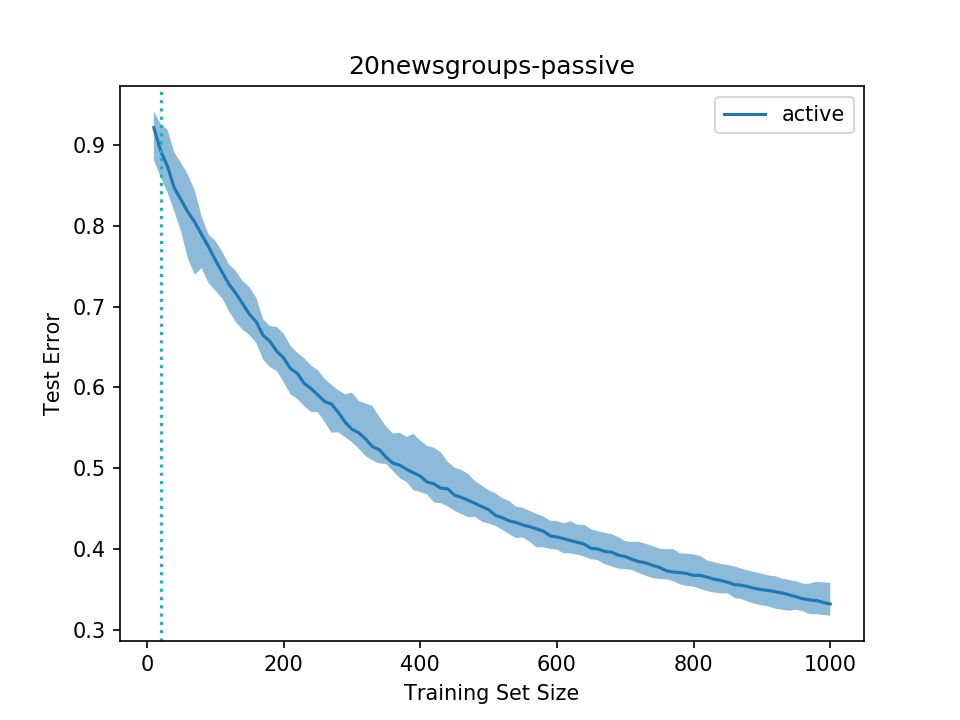
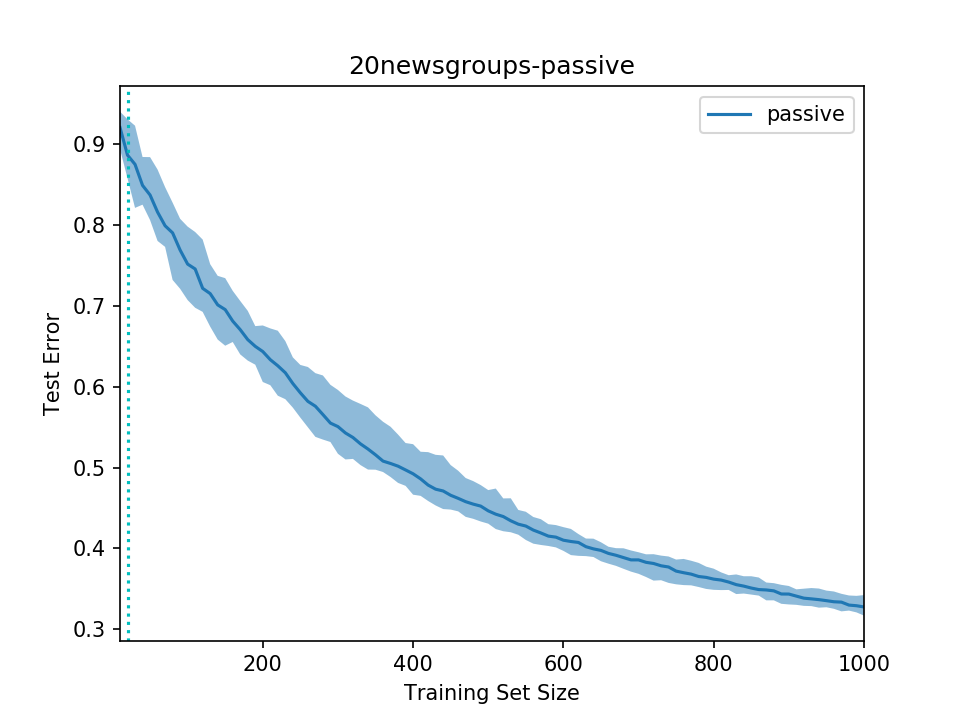
correcting legend for error plots

diff --git a/run_experiments.py b/run_experiments.py
@@ -20,16 +20,17 @@ def train_20newsgroups_all():
     indices = np.arange(len(y))
     x_train, x_rest, y_train, y_rest, idx_train, idx_rest = train_test_split(X, y, indices, test_size=0.67)
     x_teach, x_test, y_teach, y_test, idx_teach, idx_test = train_test_split(x_rest, y_rest, idx_rest, test_size=0.5)
+
     options.phase2 = 'margin'
     test_err, stopped_phase1_at = training(x_train, y_train, x_test, y_test)
-    plot_minmedianmax(test_err, stopped_phase1_at, folder='figs/active', title='20newsgroups-margin', filename='20newsgroups-margin.png', save=True)
+    plot_minmedianmax(test_err, stopped_phase1_at, legend_name='active', folder='figs/active', title='20newsgroups-margin', filename='20newsgroups-margin.png', save=True)
     options.phase2 = 'entropy'
     test_err, stopped_phase1_at = training(x_train, y_train, x_test, y_test)
-    plot_minmedianmax(test_err, stopped_phase1_at, folder='figs/active', title='20newsgroups-entropy', filename='20newsgroups-entropy.png', save=True)
+    plot_minmedianmax(test_err, stopped_phase1_at, legend_name='active', folder='figs/active', title='20newsgroups-entropy', filename='20newsgroups-entropy.png', save=True)
     options.phase1 = 'fixed'
     options.phase2 = 'passive'
     test_err, stopped_phase1_at = training(x_train, y_train, x_test, y_test)
-    plot_minmedianmax(test_err, stopped_phase1_at, folder='figs/passive', title='20newsgroups-passive', filename='20newsgroups-passive.png', save=True)
+    plot_minmedianmax(test_err, stopped_phase1_at, legend_name='passive', folder='figs/passive', title='20newsgroups-passive', filename='20newsgroups-passive.png', save=True)
 
 
 if __name__ == '__main__':

diff --git a/main.py b/main.py
@@ -224,9 +224,9 @@ def training(x_train, y_train, x_test, y_test):
     return test_err, stopped_phase1_at
 
 
-def plot_minmedianmax(test_err, stopped_phase1_at, title=None, folder=None, filename=None, save=False):
+def plot_minmedianmax(test_err, stopped_phase1_at, legend_name=None, title=None, folder=None, filename=None, save=False):
     test_err = pd.DataFrame.from_dict(test_err)
-    df = pd.DataFrame({'active': test_err.median()})
+    df = pd.DataFrame({legend_name: test_err.median()})
     ax = df.plot(title=title or folder)
     stopped_at = [np.median(stopped_phase1_at)]
     ax.fill_between(df.index, test_err.min(), test_err.max(), facecolor='C0', alpha=0.5)
